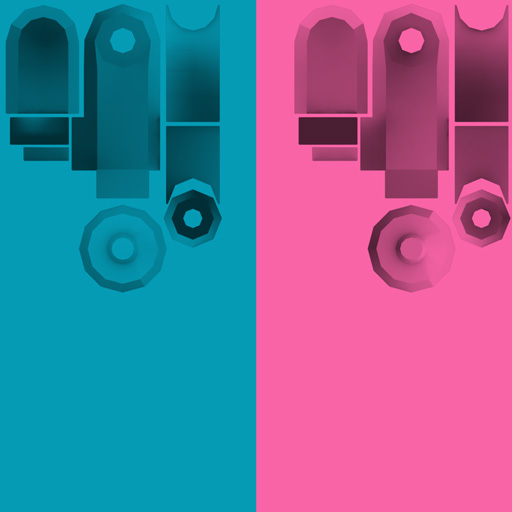
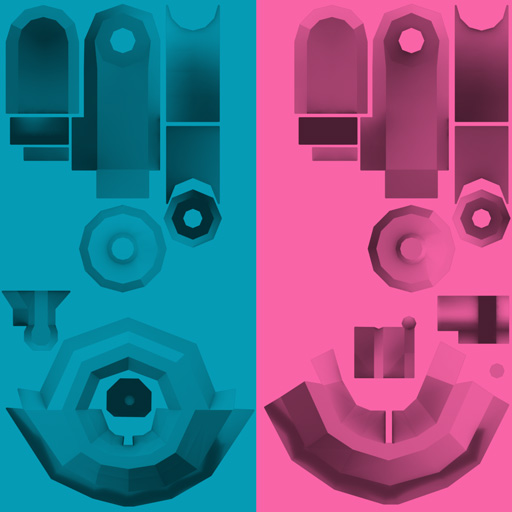
up with morph

Changed region(s): [[0.0, 0.5625, 1.0, 1.0], [0.8438, 0.5625, 1.0, 0.6875], [0.9375, 0.7188, 1.0, 0.75]]

diff --git a/demos/demo_2.js b/demos/demo_2.js
@@ -10,10 +10,15 @@ v.addGrid(400, 20, [0,0,0], [0,0,0]);
 
 // ui add clock
 var c = new UI.Clock();
+var snakeType = 0;
+var tween;
+var snake = {u:0};
+var b1 = new UI.Button('normal', setType);
 
 renderLoop();
 
 function renderLoop(){
+    TWEEN.update();
     for(var i = 0; i<fs.length; i++){
         if(i==0) c.set(v.unDegrees(fs[i].f.rotation));
         fs[i].run();
@@ -22,16 +27,37 @@ function renderLoop(){
     requestAnimationFrame( renderLoop );
 }
 
+function setType(){
+    if(snakeType == 0) snakeType = 1;
+    else snakeType = 0;
+    if(snakeType == 1 ){
+        b1.text('rat');
+        tween = new TWEEN.Tween( snake )
+            .to( {u:1}, 200 )
+            .easing( TWEEN.Easing.Linear.None )
+            .onUpdate( function () { for(var i = 0; i<48; i++){fs[i].setMorph(snake.u);}  } )
+            .start();
+    }else{
+        b1.text('normal');
+        tween = new TWEEN.Tween( snake )
+            .to( {u:0}, 200 )
+            .easing( TWEEN.Easing.Linear.None )
+            .onUpdate( function () { for(var i = 0; i<48; i++){fs[i].setMorph(snake.u);}  } )
+            .start();
+    }
+}
+
 // import image
 
 var objName = "basic_op"; // version optimiser
-var headShader, centerShader;
+var headShader, centerShader, centerMorphShader;
 var pool = new SEA3D.Pool();
 pool.loadImages(['../images/serpent.jpg','../images/center.jpg'], initImages);
 
 function initImages(){
     headShader = new V3D.SphericalShader({ env:v.img, mapLight:pool.getTexture('serpent', true) });
     centerShader = new V3D.SphericalShader({ env:v.img, mapLight:pool.getTexture('center', true) });
+    centerMorphShader = new V3D.SphericalShader({ env:v.img, mapLight:pool.getTexture('center', true), morphTargets:true });
     pool.load( ['../models/'+objName+'.sea', '../models/serpent.sea'], initObject, 'buffer' );
 }
 //
@@ -52,14 +78,12 @@ function initObject(){
 
     //----- serpent
 
-    geos['c1'] = pool.geo('serpent_center_high');
-    geos['c2'] = pool.geo('serpent_center_low');
-    geos['s1'] = pool.geo('serpent_high_rat');
-    geos['s2'] = pool.geo('serpent_low_rat');
-    geos['h1'] = pool.geo('serpent_high_norm');
-    geos['h2'] = pool.geo('serpent_low_norm');
+    geos['c1'] = pool.getMesh('serpent_center_high').geometry;
+    geos['c2'] = pool.getMesh('serpent_center_low').geometry;
+    geos['h1'] = pool.getMesh('serpent_high_norm').geometry;
+    geos['h2'] = pool.getMesh('serpent_low_norm').geometry;
     geos['head'] = pool.geo('serpent_head');
-    geos['end'] = pool.geo('serpent_end');
+    geos['end'] = pool.getMesh('serpent_end').geometry;
     //geos['tongue'] = pool.geo('serpent_tongue');
 
     //----
@@ -71,11 +95,7 @@ function initObject(){
 
 }
 
-
-
-
 // -------------------------------------------------
-
 
 // basic class 
 var formula = function(pz, r, link, label, num){
@@ -102,6 +122,7 @@ var formula = function(pz, r, link, label, num){
     this.points = [];
     this.snakeLink = [];
     this.head = null;
+    this.morphs = [];
 
     // extra scale snake
     var ex = (num/100);
@@ -110,8 +131,6 @@ var formula = function(pz, r, link, label, num){
     if (num==2) ex = (num/100)+0.15;
     if (num==3) ex = (num/100)+0.10;
     if (num==4) ex = (num/100)+0.05;
-
-
 
     // add each formula point to 3d view
     var name;
@@ -162,8 +181,6 @@ var formula = function(pz, r, link, label, num){
 
     this.snakeLink[0] = this.createSnakeLink('high_norm', n, 1-ex);
     this.snakeLink[1] = this.createSnakeLink('low_norm', n, 1-ex);
-
-    //this.points.y4.visible = false;
 }
 
 formula.prototype = {
@@ -180,7 +197,7 @@ formula.prototype = {
                 this.snakeLink[1].position.set(p.x*this.mul, p.y*this.mul,this.pointsDecal[i]);
                 if(this.head!=null){
                     this.head.position.set(p.x*this.mul, p.y*this.mul,this.pointsDecal[i]);
-                    this.head.rotation.z = -(p.r+(Math.PI/2))/2-(20*V3D.ToRad)//((p.r-(Math.PI/2)-(40*V3D.ToRad))/2)-Math.PI/2;
+                    this.head.rotation.z = -(p.r+(Math.PI/2))/2-(20*V3D.ToRad);
                 }
             }else if(name=='y5'){
                 this.snakeLink[1].rotation.z = p.r-(75*V3D.ToRad)
@@ -188,7 +205,6 @@ formula.prototype = {
                 this.points[i].position.set(p.x*this.mul, p.y*this.mul,this.pointsDecal[i]);
                 this.points[i].rotation.z = p.r;
             }
-            //this.o.move(i, p.x*this.mul, p.y*this.mul,this.pz)//, (p.z*this.mul)+this.pz);
             if(this.links.length>0){
                 if(name!='y5' && name!='o4'){
                     this.links[i].position.set(p.x*this.mul, p.y*this.mul,this.pointsDecal[i]+this.linksDecal[i]);
@@ -209,7 +225,7 @@ formula.prototype = {
 
             }
             if(this.labels.length>0){
-                this.labels[i].position.set(p.x*this.mul, p.y*this.mul,this.pz)// (p.z*this.mul)+this.pz)
+                this.labels[i].position.set(p.x*this.mul, p.y*this.mul,this.pz);
             }
         }
         //this.o.update();
@@ -258,22 +274,15 @@ formula.prototype = {
         var t = 0;
         var m = new THREE.Group();
     	var m1, m2, m3, m4;
-        if(type=='high_rat'){
+        if(type=='high_norm'){
             t = 1;
             m1 = new THREE.Mesh(geos['c1'], centerShader);
-            m2 = new THREE.Mesh(geos['s1'], v.mats.c4);
-        } else if(type=='low_rat'){
-            t = 2;
-            m1 = new THREE.Mesh(geos['c2'], centerShader);
-            m2 = new THREE.Mesh(geos['s2'], v.mats.c1);
-        } else if(type=='high_norm'){
-            t = 1;
-            m1 = new THREE.Mesh(geos['c1'], centerShader);
-            m2 = new THREE.Mesh(geos['h1'], v.mats.c4);
+            m2 = new THREE.Mesh(geos['h1'], centerMorphShader);
         } else if(type=='low_norm'){
             t = 2;
             m1 = new THREE.Mesh(geos['c2'], centerShader);
-            m2 = new THREE.Mesh(geos['h2'], v.mats.c1);
+            m2 = new THREE.Mesh(geos['h2'], centerMorphShader);
+            
         }
         n = n || 0;
         if(n==1 && t==1){
@@ -291,10 +300,17 @@ formula.prototype = {
         }
         m.add(m1);
         m1.add(m2);
+        this.morphs.push(m2);
         this.mesh.add(m);
         m1.rotation.y = Math.PI;
-        m.scale.set(s,s,s);
+        m.scale.set(s,s,-s);
     	return m;
+    },
+    setMorph:function(n){
+        var i = this.morphs.length;
+        while(i--){
+            this.morphs[i].setWeight("rat", n);
+        }
     }
 }
 

diff --git a/js/v3d.js b/js/v3d.js
@@ -52,17 +52,10 @@ V3D.View.prototype = {
         //this.projector = new THREE.Projector();
     	//this.raycaster = new THREE.Raycaster();
     },
-    initLight:function(){
-    	if(this.isMobile) return;
-    	//this.scene.fog = new THREE.Fog( 0x1d1f20, 100, 600 );
-    	//this.scene.add( new THREE.AmbientLight( 0x3D4143 ) );
-    	var hemiLight = new THREE.HemisphereLight( 0xffffff, 0x303030, 0.3 );
-		this.scene.add( hemiLight );
-		var dirLight = new THREE.DirectionalLight( 0xffffff, 1.2 );
-		dirLight.position.set( 0.5, 1, 0.5 ).normalize();
-		this.scene.add( dirLight );
-		this.initLightMaterial();
+    render : function(){
+    	this.renderer.render( this.scene, this.camera );
     },
+
     initBasic:function(){
     	var geos = {};
 		geos['sph'] = new THREE.BufferGeometry();
@@ -94,29 +87,10 @@ V3D.View.prototype = {
 	    mats['c6'] = new V3D.SphericalShader({env:img, color:0xFFFFFF, map:this.doubleTexture()});
 	    mats['c7'] = new V3D.SphericalShader({env:img, color:0xFFFFFF, map:this.doubleTexture('#07DAFF', '#059BB5')});
 
-	    /*mats['b0'] = new V3D.SphericalShader({env:img, color:0x606060, null, true, true);
-	    mats['b1'] = new V3D.SphericalShader({env:img, color:0x606060, null, true, false);
-	    mats['b2'] = new V3D.SphericalShader({env:img, color:0x606060, null, false, false);
-	    mats['bc1'] = new V3D.SphericalShader({env:img, color: 0x60FF60, null, false, false);
-	    mats['bc2'] = new V3D.SphericalShader({env:img, color:0xFF6060, null, false, false);
-	    mats['beye'] = new V3D.SphericalShader({env:img, color:0x333333, null, false, false );
-
-	    mats['sph'] = new THREE.MeshBasicMaterial( { map: this.basicTexture(0), name:'sph' } );
-	    mats['ssph'] = new THREE.MeshBasicMaterial( { map: this.basicTexture(1), name:'ssph' } );
-	    mats['box'] = new THREE.MeshBasicMaterial( { map: this.basicTexture(2), name:'box' } );
-	    mats['sbox'] = new THREE.MeshBasicMaterial( { map: this.basicTexture(3), name:'sbox' } );
-	    mats['cyl'] = new THREE.MeshBasicMaterial( { map: this.basicTexture(5), name:'cyl' } );
-	    mats['scyl'] = new THREE.MeshBasicMaterial( { map: this.basicTexture(6), name:'scyl' } );
-	    mats['static'] = new THREE.MeshBasicMaterial( { map: this.basicTexture(4), name:'static' } );
-	    mats['static2'] = new THREE.MeshBasicMaterial( { map: this.basicTexture(4, 6), name:'static2' } );*/
-
-	    //mats['joint']  = new THREE.LineBasicMaterial( { color: 0x00ff00 } );
 	    this.img = img;
 	    this.mats = mats;
     },
-    render : function(){
-    	this.renderer.render( this.scene, this.camera );
-    },
+    
     addLabel:function(text, size, color){
     	if(!color) color = "#F964A7";
 		if(!size) size = 10;
@@ -155,7 +129,7 @@ V3D.View.prototype = {
 		this.scene.add( helper );
 		this.grid = helper;
     },
-    add : function(obj, target){
+    add:function(obj, target){
     	var type = obj.type || 'box';
     	var size = obj.size || [10,10,10];
     	var pos = obj.pos || [0,0,0];
@@ -643,12 +617,7 @@ V3D.Spherical = {
             '}',
 
             // environment
-            'vec3 ev = texture2D( env, vN ).rgb;',
-            'base *= ev;',
-
-            //'if(useLightMap == 1.){',
-	        //    'base *= texture2D( mapLight, vU ).rgb;',
-            //'}',
+            'base *= texture2D( env, vN ).rgb;',
             
             'gl_FragColor = vec4( base, alpha );',
 
